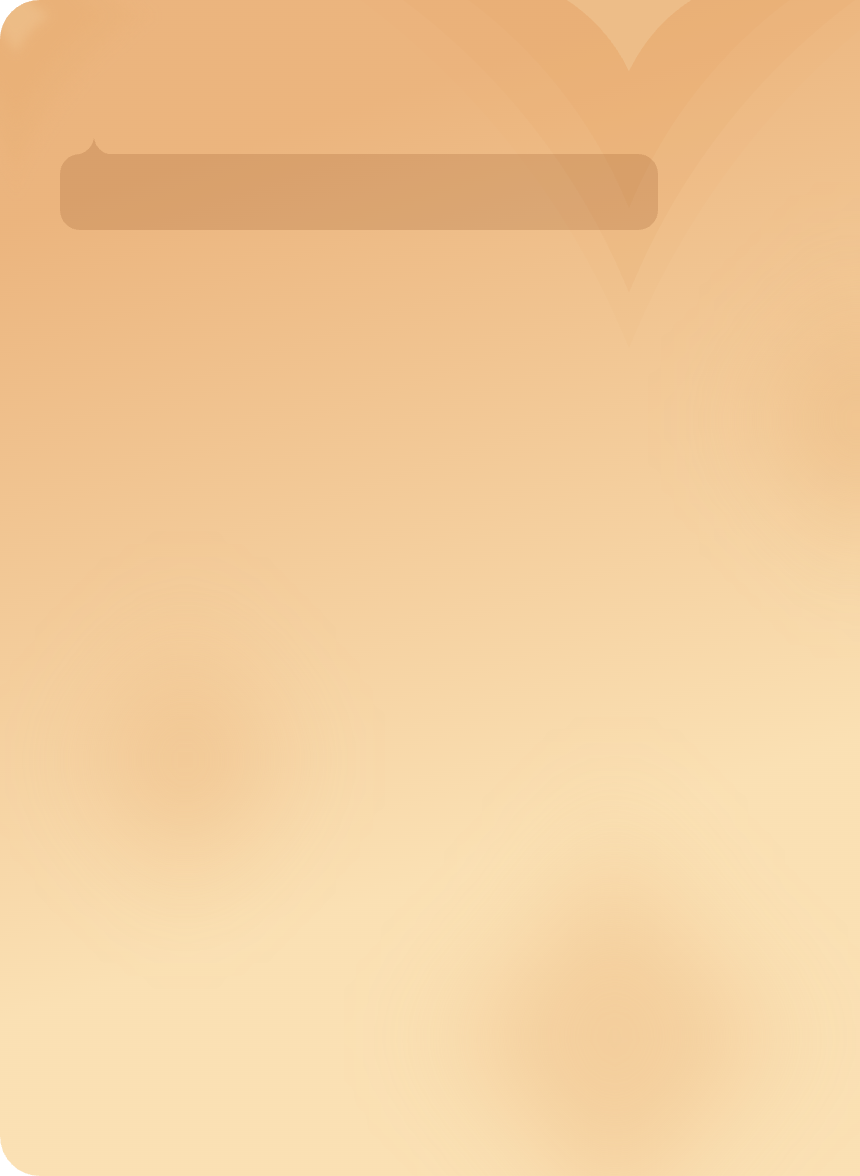
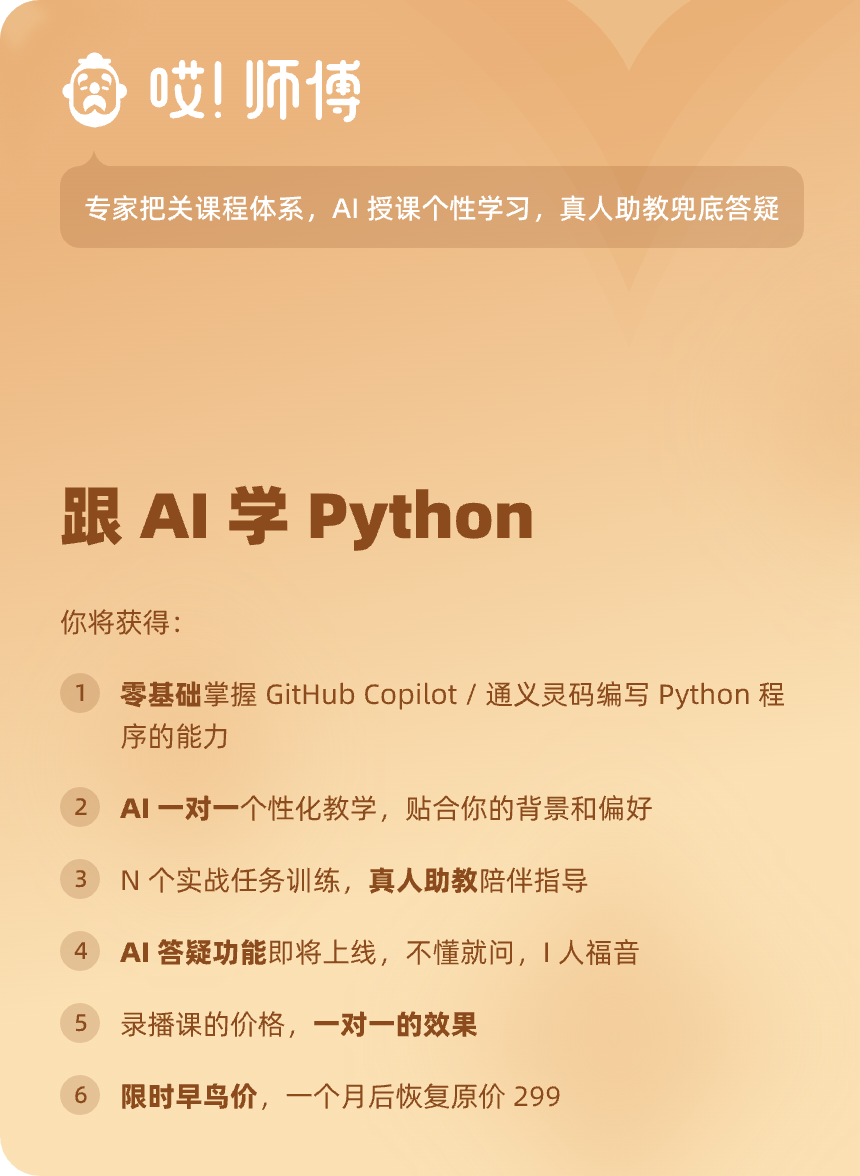
feat: 修改支付详情页面+添加channel参数

diff --git a/src/web/src/Pages/NewChatPage/Components/NavDrawer/SettingModal.jsx b/src/web/src/Pages/NewChatPage/Components/NavDrawer/SettingModal.jsx
@@ -5,6 +5,13 @@ import classNames from 'classnames';
 import { useUserStore } from 'stores/useUserStore.js';
 import { Modal } from 'antd';
 import { memo } from 'react';
+import userIcon from 'Assets/newchat/light/user.png';
+import editIcon from 'Assets/newchat/light/icon16-edit.png';
+import memberIcon from 'Assets/newchat/light/icon16-member.png';
+import exitLoginIcon from 'Assets/newchat/light/exit-login-2x.png';
+import { useCallback } from 'react';
+import { useDisclosture } from 'common/hooks/useDisclosture.js';
+import PayModal from '../Pay/PayModal.jsx';
 
 export const SettingModal = ({
   open,
@@ -16,6 +23,12 @@ export const SettingModal = ({
 }) => {
   const { hasLogin, userInfo, logout } = useUserStore((state) => state);
 
+  const {
+    open: payModalOpen,
+    onOpen: onPayModalOpen,
+    onClose: onPayModalClose,
+  } = useDisclosture();
+
   const onLogoutClick = async (e) => {
     await Modal.confirm({
       title: '确认退出登录？',
@@ -26,15 +39,23 @@ export const SettingModal = ({
       },
     });
   };
-  const avatar = userInfo?.avatar || require('@Assets/newchat/light/user.png');
+  const avatar = userInfo?.avatar || userIcon;
 
-  const onLoginRowClick = () => {
+  const onLoginRowClick = useCallback( () => {
     if (!hasLogin) {
       onLoginClick?.();
     } else {
       onGoToSetting?.();
     }
-  };
+  }, [hasLogin, onGoToSetting, onLoginClick]);
+
+  const onMemberRowClick = useCallback(() => {
+    if (!hasLogin) {
+      onLoginClick?.();
+    } else {
+      onPayModalOpen();
+    }
+  }, []) 
 
   return (
     <>
@@ -55,17 +76,16 @@ export const SettingModal = ({
                 {hasLogin ? userInfo?.name || '默认名称' : '未登录'}
               </div>
             </div>
-            <img className={styles.rowIcon} src={require('@Assets/newchat/light/icon16-edit.png')} alt="" />
+            <img className={styles.rowIcon} src={editIcon} alt="" />
           </div>
           <div
             className={styles.settingRow}
-            onClick={() => {
-            }}
+            onClick={onMemberRowClick}
           >
             <div>会员管理</div>
             <img
               className={styles.rowIcon}
-              src={require('@Assets/newchat/light/icon16-member.png')}
+              src={memberIcon}
               alt=""
             />
           </div>
@@ -74,13 +94,19 @@ export const SettingModal = ({
               <div>退出登录</div>
               <img
                 className={styles.rowIcon}
-                src={require('@Assets/newchat/light/icon16-member.png')}
+                src={exitLoginIcon}
                 alt=""
               />
             </div>
           )}
         </div>
       </PopupModal>
+
+      <PayModal
+        open={payModalOpen}
+        onCancel={onPayModalClose}
+        onOk={onPayModalClose}
+      />
     </>
   );
 };

diff --git a/src/web/src/Router/IndexNavigate.jsx b/src/web/src/Router/IndexNavigate.jsx
@@ -1,0 +1,26 @@
+import { memo, useEffect, useRef } from "react";
+import { Navigate } from "react-router-dom";
+import { parseUrlParams } from 'Utils/urlUtils.js';
+import { useSystemStore } from 'stores/useSystemStore.js'; 
+import { useRaf } from "react-use";
+
+export const IndexNavigate = (props) => {
+  const { updateChannel } = useSystemStore();
+  const channelRef = useRef(null);
+
+  if (!channelRef.current) {
+    const params = parseUrlParams();
+    const channel = params.channel || '';
+    channelRef.current = channel;
+  }
+  
+
+  useEffect(() => {
+    console.log('channel', channelRef.current)
+    updateChannel(channelRef.current);
+  }, [updateChannel])
+
+  return <Navigate {...props} />
+}
+
+export default memo(IndexNavigate);

diff --git a/src/web/src/Utils/urlUtils.js b/src/web/src/Utils/urlUtils.js
@@ -1,0 +1,15 @@
+export const parseUrlParams = () => {
+  return getQueryParams(window.location.href);
+};
+
+export function getQueryParams(url) {
+  const params = {};
+  const queryString = url.split('?')[1];
+  if (queryString) {
+    queryString.split('&').forEach(param => {
+      const [key, value] = param.split('=');
+      params[key] = decodeURIComponent(value);
+    });
+  }
+  return params;
+}

diff --git a/src/web/src/Pages/NewChatPage/Components/NavDrawer/NavFooter.jsx b/src/web/src/Pages/NewChatPage/Components/NavDrawer/NavFooter.jsx
@@ -3,6 +3,10 @@ import styles from  './NavFooter.module.scss';
 import classNames from 'classnames';
 import { memo } from 'react';
 
+import settingsIcon from 'Assets/newchat/light/settings-2x.png';
+import themeIcon from 'Assets/newchat/light/icon16-theme.png';
+import filingIcon from 'Assets/newchat/light/icon16-filing.png';
+
 
 export const NavFooter = forwardRef(({
   isCollapse = false,
@@ -26,15 +30,15 @@ export const NavFooter = forwardRef(({
 
   return (<div className={classNames(styles.navFooter, isCollapse ? styles.collapse : '') }>
     <div className={styles.settingBtn} onClick={onFilingClick} ref={fillBtnRef} >
-      <img src={require('@Assets/newchat/light/icon16-filing.png')} className={styles.icon} alt="备案" />
+      <img src={filingIcon} className={styles.icon} alt="备案" />
       <div className={styles.btnText}>备案</div>
     </div>
     <div className={styles.settingBtn} onClick={onThemeClick} ref={themeBtnRef}>
-      <img src={require('@Assets/newchat/light/icon16-theme.png')} className={styles.icon} alt="皮肤" />
+      <img src={themeIcon} className={styles.icon} alt="皮肤" />
       <div className={styles.btnText}>皮肤</div>
     </div>
     <div className={styles.settingBtn} onClick={onSettingsClick} ref={settingBtnRef}>
-      <img src={require('@Assets/newchat/light/icon16-setting.png')} className={styles.icon} alt="设置" />
+      <img src={settingsIcon} className={styles.icon} alt="设置" />
       <div className={styles.btnText}>设置</div>
     </div>
   </div>);

diff --git a/src/web/src/App.jsx b/src/web/src/App.jsx
@@ -3,13 +3,13 @@ import routes from "./Router/index";
 import { useRoutes } from "react-router-dom";
 import { ConfigProvider } from "antd";
 import locale from "antd/locale/zh_CN";
-import { useSystemStore } from 'stores/useSystemStore.js'; 
 import i18n from './i18n.js';
+import { useSystemStore } from 'stores/useSystemStore.js'; 
 
 const RouterView = () => useRoutes(routes);
 
 const App = () => {
-  const { language } = useSystemStore((state) => state);
+  const { language } = useSystemStore();
 
   // 挂载 debugger
   useEffect(() => {
@@ -18,13 +18,14 @@ const App = () => {
     return () => {
       delete window.ztDebug;
     }
-  })
+  }, [])
 
   useEffect(() => {
     i18n.changeLanguage(language);
   }, [language])
 
-  
+
+
   return (
     <ConfigProvider locale={locale}>
       <RouterView></RouterView>

diff --git a/src/web/src/Pages/NewChatPage/Components/ChatUi/ChatComponents.module.scss b/src/web/src/Pages/NewChatPage/Components/ChatUi/ChatComponents.module.scss
@@ -39,6 +39,11 @@
 
       :global(.Bubble) {
         background-color: transparent;
+        padding-top: 7px;
+        
+        h1, h2, h3, h4, h5, h6 {
+          margin-top: 0;
+        }
       }
 
       :global(.Avatar) {
@@ -48,6 +53,7 @@
 
     :global(.Bubble.text) {
       white-space: normal;
+
       p {
         line-height: 1.5em;
       }

diff --git a/src/web/src/Api/user.js b/src/web/src/Api/user.js
@@ -1,4 +1,5 @@
 import request from '../Service/Request';
+import { useSystemStore } from 'stores/useSystemStore.js';
 
 /**
  * @description 用户注册接口
@@ -88,11 +89,13 @@ export const resetPassword = (username, new_password, code) => {
  * https://agiclass.feishu.cn/docx/WyXhdgeVzoKVqDx1D4wc0eMknmg
  */
 export const registerTmp = ({ temp_id }) => {
+  const { channel: source } = useSystemStore.getState();
+
   return request(
     {
       url: '/api/user/require_tmp',
       method: 'post',
-      data: { temp_id }
+      data: { temp_id, source }
     }
   );
 }

diff --git a/src/web/src/Router/index.js b/src/web/src/Router/index.js
@@ -1,7 +1,7 @@
-import { Navigate } from "react-router-dom";
 import NewChatPage from "../Pages/NewChatPage/NewChatPage.jsx";
 import UserAgreementPage from "Pages/UserAgreementPage/UserAgreementPage.jsx";
 import PrivacyPolicyPage from "Pages/PrivacyPolicyPage/PrivacyPolicyPage.jsx";
+import IndexNavigate from "./IndexNavigate.jsx";
 
 /**
  * @description 用于存放导航栏的需要权限的路由，同时 系统的导航菜单也是基于此路由表进行渲染的
@@ -10,7 +10,7 @@ import PrivacyPolicyPage from "Pages/PrivacyPolicyPage/PrivacyPolicyPage.jsx";
 const routes = [
   {
     path: "/",
-    element: <Navigate to='/newchat'></Navigate>,
+    element: <IndexNavigate to='/newchat'></IndexNavigate>,
   },
   {
     path: '/useraggrement',

diff --git a/src/web/src/stores/useSystemStore.js b/src/web/src/stores/useSystemStore.js
@@ -2,4 +2,7 @@ import { create } from 'zustand';
 
 export const useSystemStore = create((set) => ({
   language: 'zh_CN',
+  channel: '',
+
+  updateChannel: (channel) => set({ channel })
 }));

diff --git a/src/web/src/Pages/NewChatPage/Components/Pay/PayModal.jsx b/src/web/src/Pages/NewChatPage/Components/Pay/PayModal.jsx
@@ -23,7 +23,6 @@ import { useInterval } from 'react-use';
 import { message } from 'antd';
 
 import payInfoBg from 'Assets/newchat/pay-info-bg.png';
-import PayLeft from './PayLeft.jsx';
 
 const DEFAULT_QRCODE = 'DEFAULT_QRCODE';
 const MAX_TIMEOUT = 1000 * 60 * 3;
@@ -176,7 +175,6 @@ export const PayModal = ({ open = false, onCancel, onOk }) => {
             className={styles.introSection}
             style={{ backgroundImage: `url(${payInfoBg})` }}
           >
-            <PayLeft />
           </div>
           <div className={styles.paySection}>
             <div className={styles.payInfoTitle}>首发特惠</div>